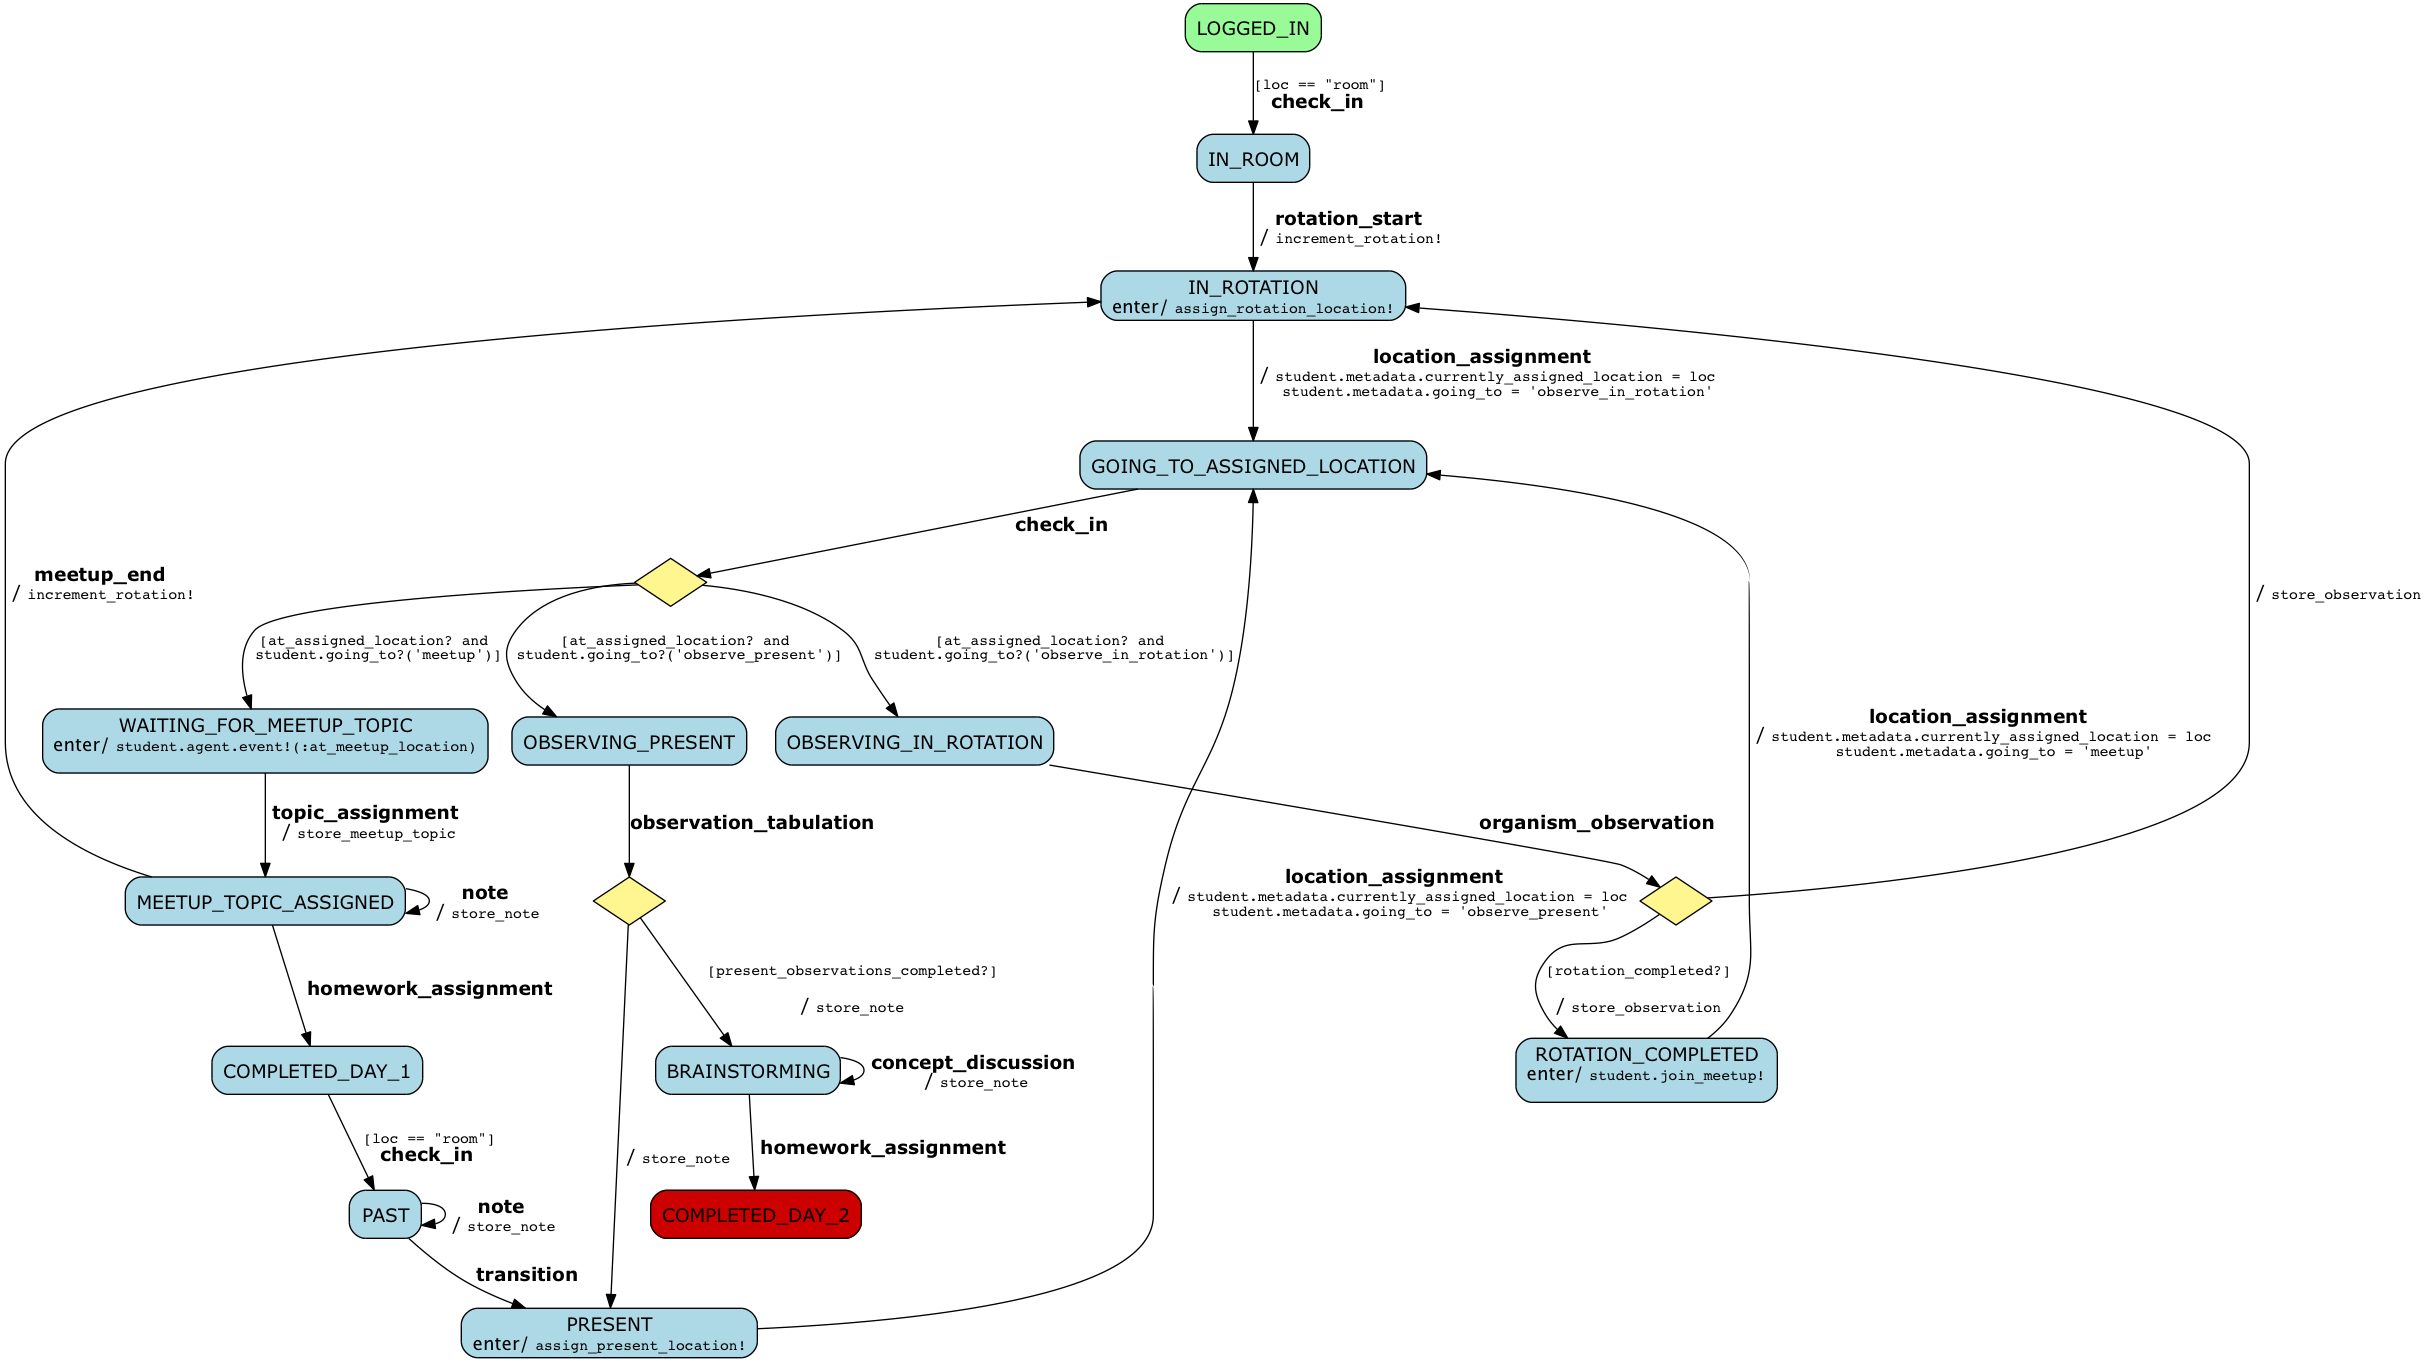
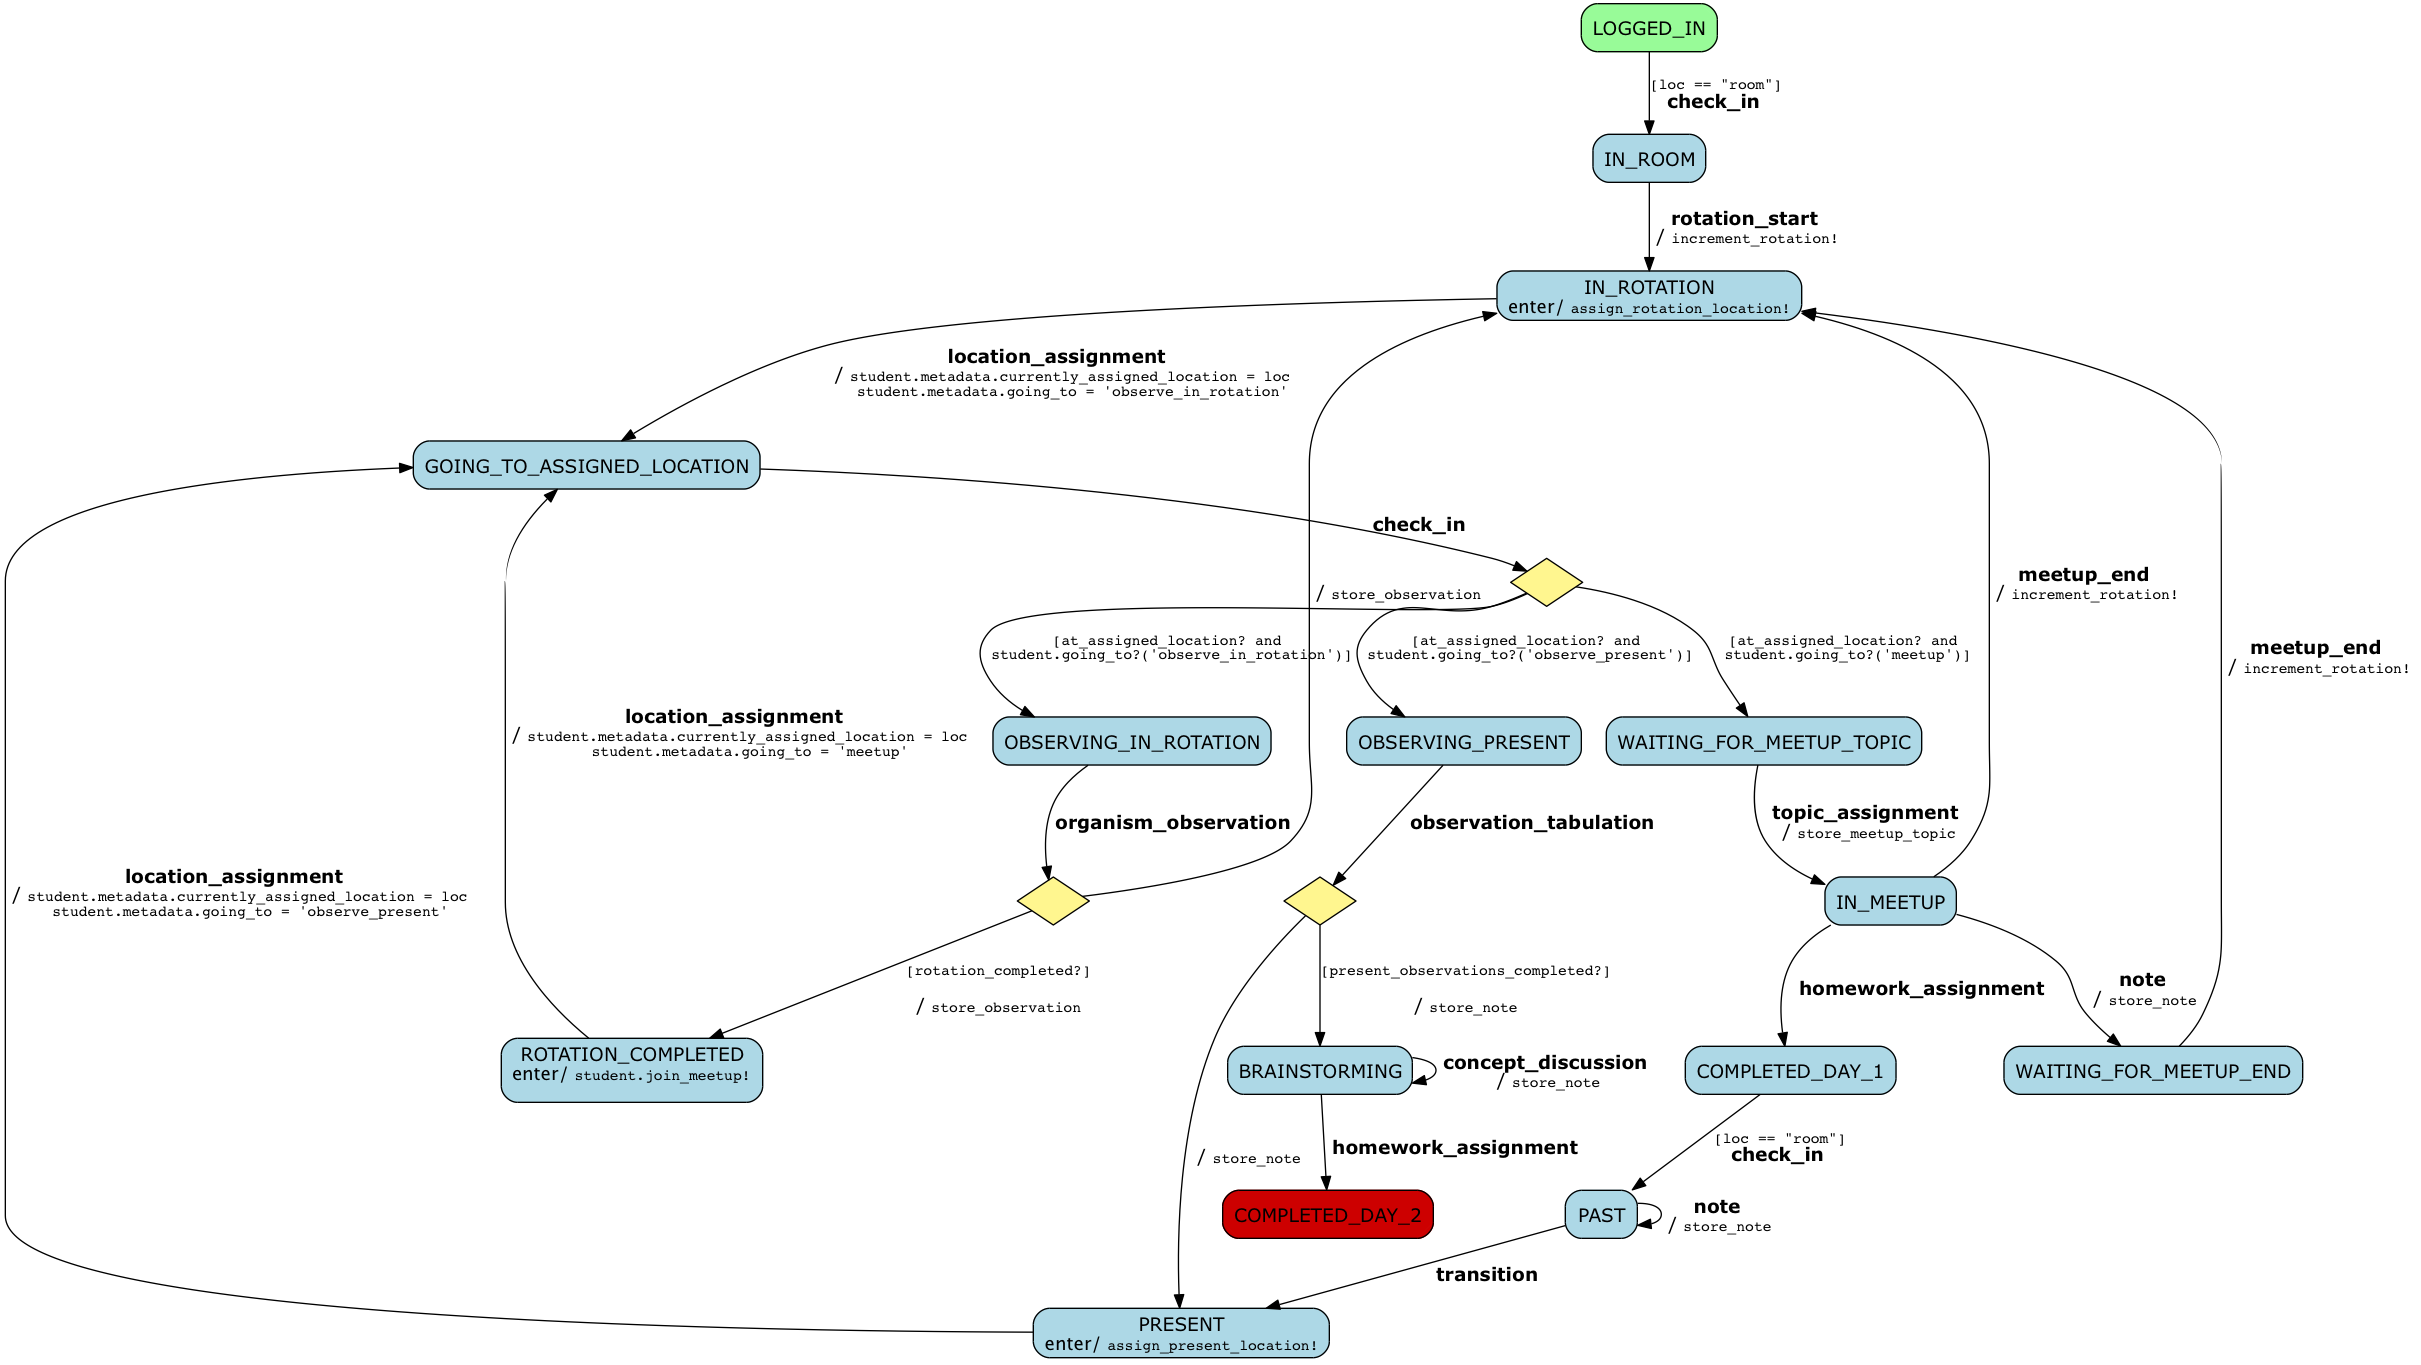
added WAITING_FOR_MEETUP_END state

diff --git a/agents/model/student_statemachine.rb b/agents/model/student_statemachine.rb
@@ -1,4 +1,5 @@
-# $: << '../../EvoRoom3/agents/sail.rb/lib'; $: << '../../EvoRoom3/agents'; require 'model/student'; Student.site = "http://rollcall.proto.encorelab.org"; s = Student.find(:first); load 'golem/visualizer.rb'; v = Golem::Visualizer.new; v.visualize(s.statemachine); puts "--[ callbacks in use ]--"; s.statemachine.inspect.scan(/@callback=\:([\w_\?\!]+)/i).flatten.uniq.each{|m| puts (s.respond_to?(m) ? "√" : "x") + " #{m}"}; puts "--[ events ]--"; puts s.statemachine.events.values.collect{|ev| ev.name}; nil
+# $: << '../../EvoRoom3/agents/sail.rb/lib'; $: << '../../EvoRoom3/agents'; require 'model/student'; Student.site = "http://rollcall.proto.encorelab.org"; s = Student.find('mzukowski'); load 'golem/visualizer.rb'; v = Golem::Visualizer.new(s.statemachine); v.visualize(:png, '../../EvoRoom3/agents/model/student_statemachine.png'); puts "--[ callbacks in use ]--"; s.statemachine.inspect.scan(/@callback=\:([\w_\?\!]+)/i).flatten.uniq.each{|m| puts (s.respond_to?(m) ? "√" : "x") + " #{m}"}; puts "--[ events ]--"; puts s.statemachine.events.values.collect{|ev| ev.name}; nil
+
 StudentStatemachine = proc do
   initial_state :LOGGED_IN
 
@@ -72,17 +73,18 @@ StudentStatemachine = proc do
   end
   
   state :WAITING_FOR_MEETUP_TOPIC do
-    enter do |student|
-      student.agent.event!(:at_meetup_location)
-    end
-    on :topic_assignment, :to => :MEETUP_TOPIC_ASSIGNED, 
+    on :topic_assignment, :to => :IN_MEETUP, 
       :action => :store_meetup_topic
   end
   
-  state :MEETUP_TOPIC_ASSIGNED do
-    on :note, :action => :store_note
+  state :IN_MEETUP do
+    on :note, :to => :WAITING_FOR_MEETUP_END, :action => :store_note
     on :meetup_end, :to => :IN_ROTATION, :action => :increment_rotation!
     on :homework_assignment, :to => :COMPLETED_DAY_1
+  end
+  
+  state :WAITING_FOR_MEETUP_END do
+    on :meetup_end, :to => :IN_ROTATION, :action => :increment_rotation!
   end
 
   # DAY 2
